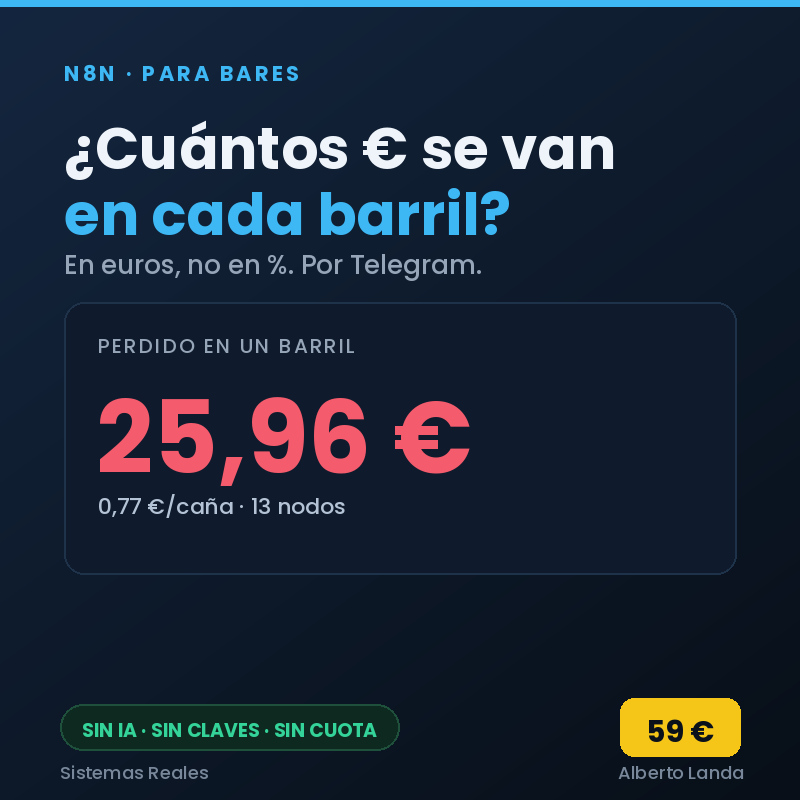
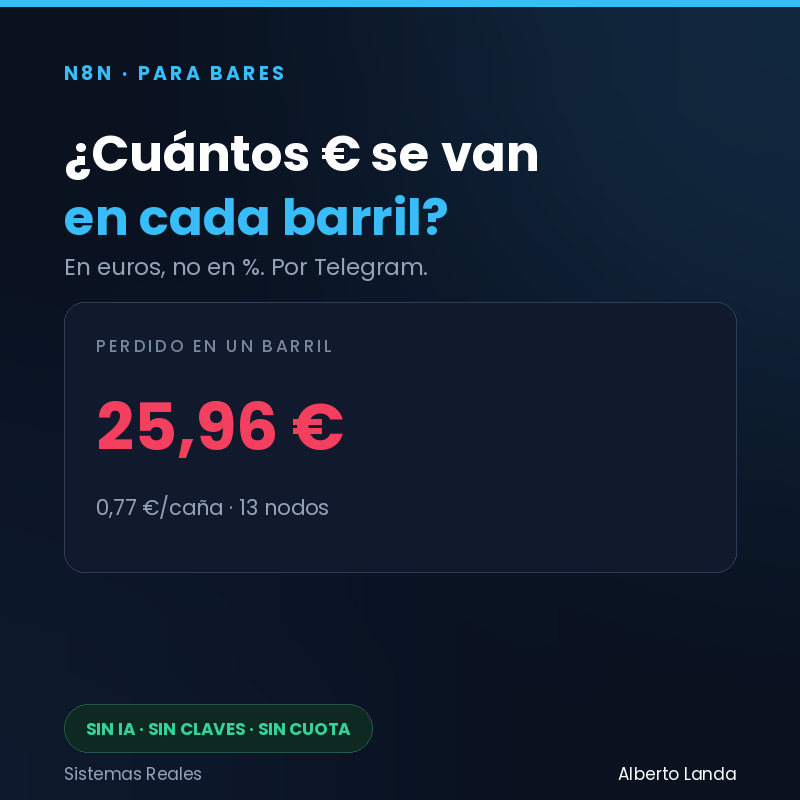
Miniaturas de hosteleria sin precio incrustado + generadores sin precios (norma 2026-07-20)

diff --git a/_generador_galeria_5productos.py b/_generador_galeria_5productos.py
@@ -1,5 +1,7 @@
 # -*- coding: utf-8 -*-
 """Galerias Sistemas Reales — 5 productos, 6 imgs 1280x720, Pillow puro, contenido REAL."""
+# NORMA 2026-07-20: NINGUNA imagen lleva el precio del producto dentro.
+# El precio lo pone Gumroad y cambia; la imagen no. Ver [[normas-de-alberto]].
 from PIL import Image, ImageDraw, ImageFilter, ImageFont
 from pathlib import Path
 BASE="/sessions/quirky-brave-knuth/mnt/CEREBRO-DIGITAL-ALBERTO/_recursos/_assets-publicos"
@@ -64,7 +66,7 @@ def f_pro():
     bullets(d,80,410,[("Workflow n8n PRO con umbral de confianza configurable",WHITE),
         ("5 prompts por tipo de factura + 6 facturas de prueba realistas",WHITE),
         ("Guía de instalación en 10 pasos + doc de 7 errores comunes",WHITE)],lh=44)
-    sello(d,880,404,346,"SIN NUBE · SIN CLAVES · SIN CUOTA","Pack Completo · 25 € · pago único")
+    sello(d,880,404,346,"SIN NUBE · SIN CLAVES · SIN CUOTA","Pack Completo · pago único")
     footer(d,FT,"1 / 6"); save(img,S,"gal-1-portada.png")
 def f_pro2():
     img=bg_base(); d,_=header(img,MK,[[("De un PDF a 4 datos limpios,",WHITE)],[("en segundos.",CYAN)]],
@@ -131,7 +133,7 @@ def f_pro6():
         x=x0+(i%2)*(w+gx); y=y0+(i//2)*(h+gy)
         rrect(d,[x,y,x+w,y+h],12,fill=CARD,outline=CARD_B,width=1)
         d.text((x+22,y+24),k,font=F(20,bold=True),fill=c); d.text((x+22,y+64),v,font=F(15),fill=GRAY)
-    footer(d,FT,"@sistemasreales · Pack Completo 25 €"); save(img,S,"gal-6-garantias.png")
+    footer(d,FT,"@sistemasreales · Pack Completo"); save(img,S,"gal-6-garantias.png")
 
 # ============ 2) FACTURAS PLANTILLA n8n (GRATIS) — facturas-n8n-free ============
 S2="facturas-n8n-free"; MK2="SISTEMAS REALES · FACTURAS AUTOMÁTICO · PLANTILLA GRATIS"; FT2="Sistemas Reales · Facturas Automático (Plantilla n8n)"
@@ -202,7 +204,7 @@ def g5():
 def g6():
     img=bg_base(); d,_=header(img,MK2,[[("¿Quieres el sistema",WHITE)],[("completo?",AMBER)]],
         "Esta plantilla es el episodio gratis. El Pack Completo lleva más.")
-    panel(d,54,258,1172,220,"EL PACK COMPLETO (25 €) AÑADE")
+    panel(d,54,258,1172,220,"EL PACK COMPLETO AÑADE")
     bullets(d,80,300,[("6 facturas de prueba en vez de 2 (proveedor, multilínea, Stripe, IVA…)",WHITE),
         ("5 prompts afinados por tipo de factura",WHITE),
         ("Umbral de confianza configurable (decides cuándo revisar)",WHITE),
@@ -222,7 +224,7 @@ def e1():
     bullets(d,80,410,[("Cubren el ciclo completo: captar, vender, recuperar y fidelizar",WHITE),
         ("Compatibles con Mailchimp, ActiveCampaign, Klaviyo, Brevo, MailerLite",WHITE),
         ("Solo reemplazas las [VARIABLES] con tus datos y envías",WHITE)],lh=44)
-    sello(d,880,404,346,"HTML LISTO · MÓVIL Y ESCRITORIO","Pack 5 plantillas · 17 €",col=CYAN,bg=(14,28,40),ob=(30,60,90))
+    sello(d,880,404,346,"HTML LISTO · MÓVIL Y ESCRITORIO","Pack 5 plantillas · pago único",col=CYAN,bg=(14,28,40),ob=(30,60,90))
     footer(d,FT3,"1 / 6"); save(img,S3,"gal-1-portada.png")
 def e2():
     img=bg_base(); d,_=header(img,MK3,[[("Las 5 plantillas",WHITE),(" del pack.",CYAN)]],
@@ -276,13 +278,13 @@ def e6():
     items=[("5 plantillas HTML","Ciclo completo de email marketing",CYAN),
            ("Guía de uso incluida","Excel con qué es cada email y cuándo enviarlo",GREEN),
            ("Personalizable","Cambia colores, textos y CTA en minutos",VIOLET),
-           ("Pago único","17 € · sin cuotas, tuyo para siempre",AMBER)]
+           ("Pago único","Sin cuotas: tuyo para siempre",AMBER)]
     x0,y0=54,262;w,h=580,132;gx,gy=12,16
     for i,(k,v,c) in enumerate(items):
         x=x0+(i%2)*(w+gx); y=y0+(i//2)*(h+gy)
         rrect(d,[x,y,x+w,y+h],12,fill=CARD,outline=CARD_B,width=1)
         d.text((x+22,y+24),k,font=F(19,bold=True),fill=c); d.text((x+22,y+64),v,font=F(14.5),fill=GRAY)
-    footer(d,FT3,"@sistemasreales · Pack Email 17 €"); save(img,S3,"gal-6-cierre.png")
+    footer(d,FT3,"@sistemasreales · Pack Email"); save(img,S3,"gal-6-cierre.png")
 
 # ============ 4) TRACKER FINANZAS 2026 15 € — tracker-finanzas-2026 ============
 S4="tracker-finanzas-2026"; MK4="SISTEMAS REALES · TRACKER DE FINANZAS PERSONALES 2026"; FT4="Sistemas Reales · Tracker de Finanzas Personales 2026"
@@ -297,7 +299,7 @@ def t1():
     bullets(d,80,410,[("Ves de un vistazo cuánto entra, cuánto sale y cuánto ahorras cada mes",WHITE),
         ("La tasa de ahorro te dice si vas bien (10% ok · 20%+ excelente)",WHITE),
         ("Sin saber de Excel: solo escribes números en la hoja del mes",WHITE)],lh=44)
-    sello(d,880,404,346,"SIN CUOTA · SIN APPS · ES TUYO","Tracker 2026 · 15 € · pago único")
+    sello(d,880,404,346,"SIN CUOTA · SIN APPS · ES TUYO","Tracker 2026 · pago único")
     footer(d,FT4,"1 / 6"); save(img,S4,"gal-1-portada.png")
 def t2():
     img=bg_base(); d,_=header(img,MK4,[[("El dashboard anual,",WHITE)],[("automático.",GREEN)]],
@@ -356,13 +358,13 @@ def t6():
     items=[("Se actualiza solo","El dashboard suma tus 12 meses automático",GREEN),
            ("Guía incluida","Paso a paso dentro del propio archivo",CYAN),
            ("Compatible","Excel · Google Sheets · LibreOffice",VIOLET),
-           ("Pago único","15 € · sin cuotas ni apps que instalar",AMBER)]
+           ("Pago único","Sin cuotas ni apps que instalar",AMBER)]
     x0,y0=54,262;w,h=580,132;gx,gy=12,16
     for i,(k,v,c) in enumerate(items):
         x=x0+(i%2)*(w+gx); y=y0+(i//2)*(h+gy)
         rrect(d,[x,y,x+w,y+h],12,fill=CARD,outline=CARD_B,width=1)
         d.text((x+22,y+24),k,font=F(19,bold=True),fill=c); d.text((x+22,y+64),v,font=F(14.5),fill=GRAY)
-    footer(d,FT4,"@sistemasreales · Tracker 2026 · 15 €"); save(img,S4,"gal-6-cierre.png")
+    footer(d,FT4,"@sistemasreales · Tracker 2026"); save(img,S4,"gal-6-cierre.png")
 
 # ============ 5) PACK 200+ PROMPTS 19 € — prompts-200-negocios ============
 S5="prompts-200-negocios"; MK5="SISTEMAS REALES · PACK 200+ PROMPTS IA PARA NEGOCIOS"; FT5="Sistemas Reales · Pack 200+ Prompts IA para Negocios"
@@ -377,7 +379,7 @@ def p1():
     bullets(d,80,410,[("Cada prompt lleva rol + contexto + formato de salida pedido",WHITE),
         ("Solo reemplazas las [VARIABLES EN MAYÚSCULAS] con tus datos",WHITE),
         ("Organizados en 8 pestañas con autofiltro para buscar por palabra",WHITE)],lh=44)
-    sello(d,880,404,346,"204 PROMPTS · 8 CATEGORÍAS","Pack Prompts · 19 € · pago único",col=VIOLET,bg=(26,20,42),ob=(60,45,95))
+    sello(d,880,404,346,"204 PROMPTS · 8 CATEGORÍAS","Pack Prompts · pago único",col=VIOLET,bg=(26,20,42),ob=(60,45,95))
     footer(d,FT5,"1 / 6"); save(img,S5,"gal-1-portada.png")
 def p2():
     img=bg_base(); d,_=header(img,MK5,[[("8 categorías,",WHITE),(" 204 prompts.",CYAN)]],
@@ -436,13 +438,13 @@ def p6():
     items=[("204 prompts","8 categorías de negocio",VIOLET),
            ("Autofiltro","Busca por palabra clave en cada pestaña",CYAN),
            ("Todo en un Excel","Una pestaña por área, fácil de navegar",GREEN),
-           ("Pago único","19 € · sin cuotas, tuyo para siempre",AMBER)]
+           ("Pago único","Sin cuotas: tuyo para siempre",AMBER)]
     x0,y0=262-0,262;w,h=580,132;gx,gy=12,16; x0=54
     for i,(k,v,c) in enumerate(items):
         x=x0+(i%2)*(w+gx); y=y0+(i//2)*(h+gy)
         rrect(d,[x,y,x+w,y+h],12,fill=CARD,outline=CARD_B,width=1)
         d.text((x+22,y+24),k,font=F(19,bold=True),fill=c); d.text((x+22,y+64),v,font=F(14.5),fill=GRAY)
-    footer(d,FT5,"@sistemasreales · Pack Prompts 19 €"); save(img,S5,"gal-6-cierre.png")
+    footer(d,FT5,"@sistemasreales · Pack Prompts"); save(img,S5,"gal-6-cierre.png")
 
 for fn in [f_pro,f_pro2,f_pro3,f_pro4,f_pro5,f_pro6, g1,g2,g3,g4,g5,g6, e1,e2,e3,e4,e5,e6, t1,t2,t3,t4,t5,t6, p1,p2,p3,p4,p5,p6]:
     fn()

diff --git a/_generador_galeria_kit_social.py b/_generador_galeria_kit_social.py
@@ -1,5 +1,7 @@
 # -*- coding: utf-8 -*-
 """Galerias Kit Freelancer + Social Media Planner — estilo Sistemas Reales, 1280x720,
+# NORMA 2026-07-20: NINGUNA imagen lleva el precio del producto dentro.
+# El precio lo pone Gumroad y cambia; la imagen no. Ver [[normas-de-alberto]].
 Pillow puro. Contenido REAL de los productos (Regla de las imagenes: nada de humo)."""
 from PIL import Image, ImageDraw, ImageFilter, ImageFont
 from pathlib import Path
@@ -67,7 +69,7 @@ def k1():
         d.text((104,y+56),v,font=F(15),fill=GRAY); y+=116
     card(d,858,258,368,100,"FORMATOS","Excel · Sheets · LibreOffice",CYAN,vsize=17)
     card(d,858,374,368,100,"GUÍA DE USO","Incluida (PDF paso a paso)",GREEN,vsize=17)
-    sello(d,858,490,368,"Kit Freelancer Esencial · 24,99 € · pago único")
+    sello(d,858,490,368,"Kit Freelancer Esencial · pago único")
     footer(d,FK,"1 / 6"); img.save(ko("gal-1-portada.png")); print("k1")
 
 def k2():
@@ -177,7 +179,7 @@ def k6():
     d.text((692,276),"LO QUE NO",font=F(13,bold=True),fill=RED); yy=316
     for t in no:
         d.text((694,yy-2),"×",font=F(20,bold=True),fill=RED); d.text((716,yy),t,font=F(15),fill=GRAY); yy+=52
-    sello(d,692,470,510,"Kit Freelancer Esencial · 24,99 € · pago único")
+    sello(d,692,470,510,"Kit Freelancer Esencial · pago único")
     footer(d,FK,"6 / 6"); img.save(ko("gal-6-que-si-que-no.png")); print("k6")
 
 # ===================== SOCIAL PLANNER =====================
@@ -201,7 +203,7 @@ def s1():
         rrect(d,[x,y,x+286,y+150],13,fill=PANEL,outline=PANEL_B,width=1)
         dot(d,x+22,y+34,c,r=7); d.text((x+40,y+24),k,font=F(15,bold=True),fill=WHITE)
         d.text((x+22,y+64),v,font=F(13),fill=GRAY); x+=294
-    sello(d,54,440,560,"Social Media Content Planner 2026 · 12,99 € · pago único")
+    sello(d,54,440,560,"Social Media Content Planner 2026 · pago único")
     card(d,634,440,592,62,"15 HOJAS · 1 SOLO ARCHIVO","Excel · Google Sheets · LibreOffice",CYAN,vsize=16)
     footer(d,FS,"1 / 6"); img.save(so("gal-1-portada.png")); print("s1")
 
@@ -324,7 +326,7 @@ def s6():
         d.text((104,y+46),v,font=F(14),fill=GRAY); y+=98
     card(d,792,256,434,120,"GUÍA DE USO","Hoja en el Excel + PDF aparte",GREEN,vsize=18)
     card(d,792,392,434,120,"FUNCIONA EN","Excel · Sheets · LibreOffice",CYAN,vsize=18)
-    sello(d,792,528,434,"12,99 € · pago único, sin cuotas")
+    sello(d,792,528,434,"Pago único, sin cuotas")
     footer(d,FS,"6 / 6"); img.save(so("gal-6-cierre.png")); print("s6")
 
 if __name__=="__main__":

diff --git a/_generador_galeria_barriles_desperdicio.py b/_generador_galeria_barriles_desperdicio.py
@@ -1,5 +1,7 @@
 # -*- coding: utf-8 -*-
 """Galeria Barriles + Desperdicio — estilo Sistemas Reales, 1280x720, Pillow puro.
+# NORMA 2026-07-20: NINGUNA imagen lleva el precio del producto dentro.
+# El precio lo pone Gumroad y cambia; la imagen no. Ver [[normas-de-alberto]].
 Emojis dibujados a mano (DejaVu no los trae). Cifras reales de las guias."""
 from PIL import Image, ImageDraw, ImageFont, ImageFilter
 from pathlib import Path
@@ -61,7 +63,7 @@ def b1():
     d.text((px+22,py+196),"Rendimiento 90,07 %  ·  cada caña te cuesta 0,77 € en vez de 0,64 €",font=F(15,bold=True),fill=AMBER)
     card(d,900,270,326,84,"CÓMO SE APUNTA","Telegram",CYAN)
     card(d,900,368,326,84,"INTELIGENCIA","Sin IA",GREEN)
-    sello(d,900,466,326,"59 € · pago único, sin cuota")
+    sello(d,900,466,326,"Pago único, sin cuota")
     footer(d,FOOT_B,"1 / 6"); img.save(bar_out("gal-1-portada.png")); print("bar1")
 
 def b2():
@@ -139,7 +141,7 @@ def b6():
         rrect(d,[54,y,820,y+92],12,fill=CARD,outline=CARD_B,width=1)
         dot(d,80,y+46,GREEN,r=8); d.text((104,y+18),k,font=F(18,bold=True),fill=WHITE)
         d.text((104,y+50),v,font=F(14),fill=GRAY); y+=106
-    sello(d,850,262,376,"59 € · pago único");
+    sello(d,850,262,376,"Pago único, sin cuota");
     card(d,850,340,376,120,"LO QUE AHORRAS EN 1 BARRIL MALO","25,96 €",RED)
     d.text((850,472),"Con recuperar un barril al mes,",font=F(14),fill=GRAY)
     d.text((850,494),"el sistema ya se ha pagado.",font=F(14,bold=True),fill=WHITE)
